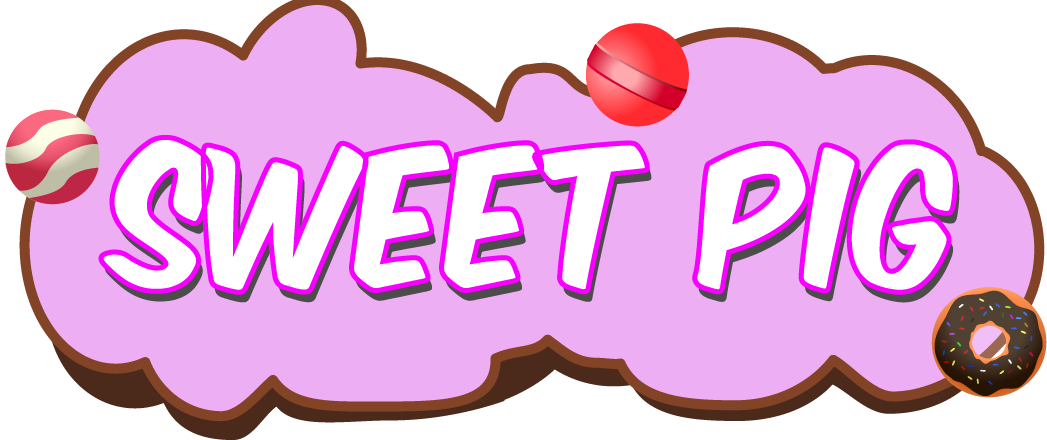
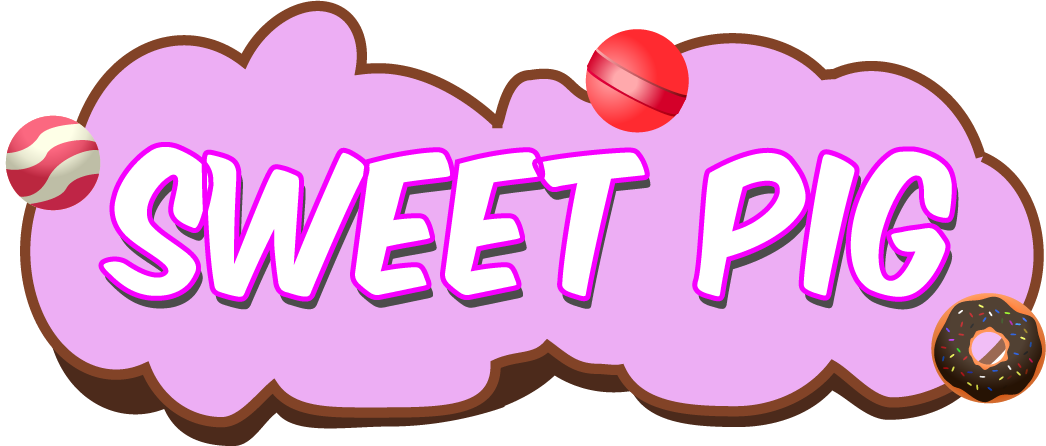
[UPDATE]Start title position fix for iPad

diff --git a/Classes/GameScene/StartScene.cpp b/Classes/GameScene/StartScene.cpp
@@ -151,7 +151,7 @@ namespace GameScene
     
     Vec2 StartScene::getStartTitlePosition()
     {
-        return Vec2(this->center.x, this->visibleOrigin.y + this->visibleSize.height * 0.85);
+        return Vec2(this->center.x, this->visibleOrigin.y + this->visibleSize.height * 0.83);
     }
     
     Vec2 StartScene::getMovePig0StartPosition()
